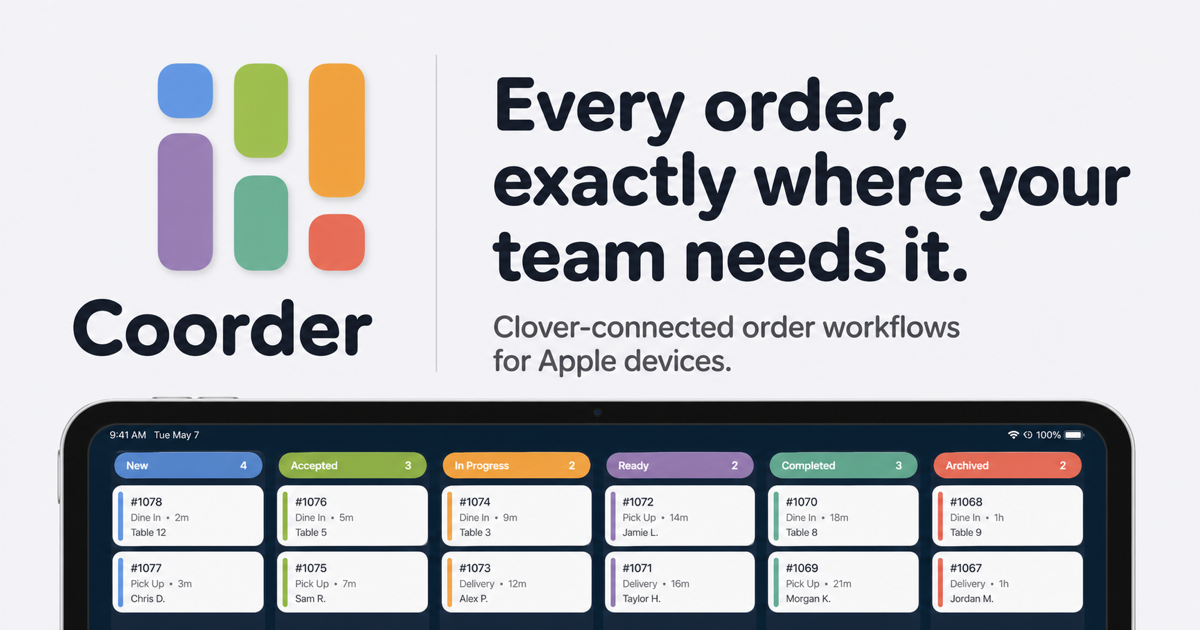
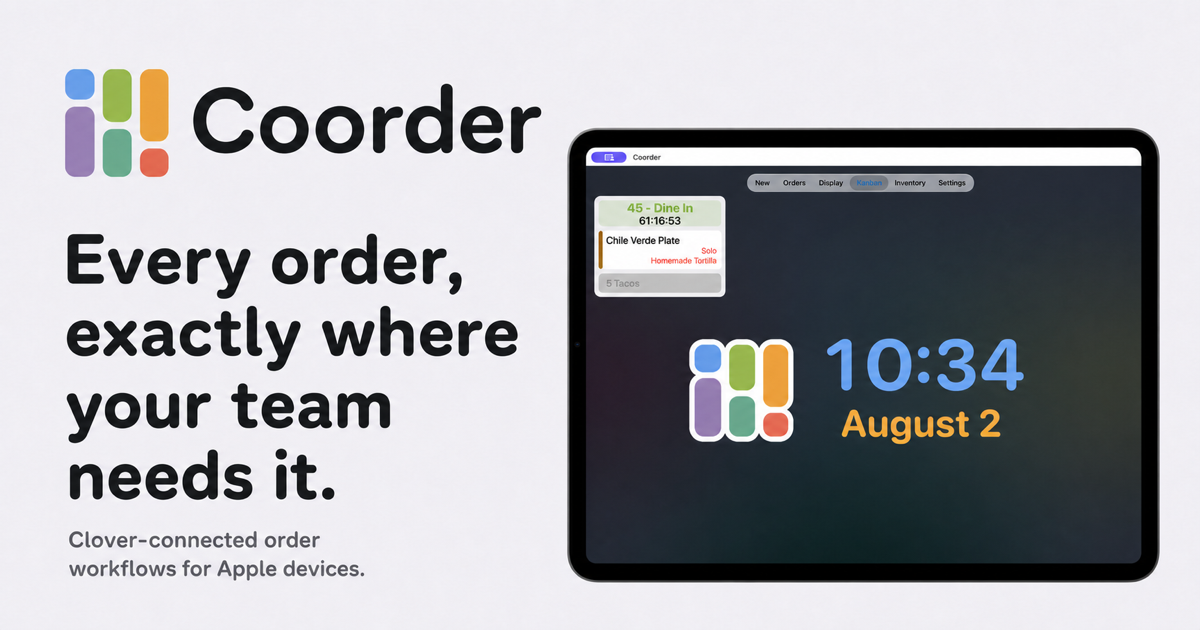
Use authentic Coorder iPad capture

diff --git a/app/globals.css b/app/globals.css
@@ -47,10 +47,8 @@ h1, h2, h3 { font-weight: 700; }
   height: 46px;
   display: grid;
   place-items: center;
-  overflow: hidden;
-  border-radius: 15px;
-  background: linear-gradient(145deg, #edf7dc, #e9eef9);
-  box-shadow: inset 0 0 0 1px rgba(23, 32, 28, .04);
+  overflow: visible;
+  background: transparent;
 }
 
 .brand-mark img { width: 37px; height: 37px; object-fit: contain; }
@@ -92,37 +90,10 @@ h1, h2, h3 { font-weight: 700; }
 .color-ribbon .red { background: var(--red); }
 
 .product-preview { position: relative; min-width: 0; }
-.ipad-frame { position: relative; padding: 10px; border-radius: 34px; background: #171b1f; box-shadow: 0 28px 75px rgba(23, 32, 28, .18); }
-.ipad-camera { position: absolute; z-index: 3; top: 14px; left: 50%; width: 5px; height: 5px; border-radius: 50%; background: #394047; transform: translateX(-50%); }
-.ipad-screen { overflow: hidden; border-radius: 26px; background: var(--page); }
-.ipad-tabbar { min-height: 54px; display: flex; align-items: center; justify-content: center; gap: 2px; padding: 9px 12px; border-bottom: 1px solid rgba(23, 32, 28, .06); background: rgba(255, 255, 255, .92); }
-.ipad-tabbar span { padding: 7px 9px; border-radius: 999px; color: #4f5b55; font-size: 8px; font-weight: 750; }
-.ipad-tabbar .active { color: #376cae; background: var(--soft-blue); }
-.real-kanban { position: relative; min-height: 380px; overflow: hidden; padding: 42px 16px 18px; background: radial-gradient(circle at 50% 46%, #003838 0, #1e3439 36%, #212c38 66%, #221f25 100%); }
-.kanban-ambient { position: absolute; inset: 14px 0 auto; display: flex; align-items: center; justify-content: center; gap: 12px; opacity: .2; }
-.kanban-ambient img { width: 72px; height: 72px; border-radius: 20px; object-fit: cover; }
-.kanban-ambient div { display: flex; flex-direction: column; align-items: center; }
-.kanban-ambient strong { color: var(--blue); font-size: 48px; line-height: .8; letter-spacing: -.06em; }
-.kanban-ambient span { margin-top: 8px; color: var(--orange); font-size: 20px; font-weight: 800; }
-.kanban-order-row { position: relative; z-index: 2; display: grid; grid-template-columns: repeat(3, minmax(0, 1fr)); gap: 10px; align-items: start; margin-top: 66px; }
-.ipad-order-card { min-width: 0; padding: 9px; border-radius: 14px; background: rgba(242, 242, 246, .97); box-shadow: 0 10px 26px rgba(0, 0, 0, .24); }
-.ipad-order-card header { padding: 7px 6px; border-radius: 9px; text-align: center; background: var(--order-soft); }
-.ipad-order-card header strong, .ipad-order-card header span { display: block; }
-.ipad-order-card header strong { overflow: hidden; color: var(--order); font-size: 9px; text-overflow: ellipsis; white-space: nowrap; }
-.ipad-order-card header span { margin-top: 3px; color: #222b28; font-size: 8px; font-weight: 750; }
-.blue-order { --order: #4b83c8; --order-soft: #e6f0fd; }
-.orange-order { --order: #b57419; --order-soft: #fff0d6; }
-.green-order { --order: #6e8835; --order-soft: #edf5dd; }
-.ipad-item { display: grid; grid-template-columns: 18px 1fr; gap: 6px; margin-top: 8px; padding: 8px; border-radius: 9px; background: #fff; }
-.ipad-item b { width: 18px; height: 18px; display: grid; place-items: center; border-radius: 6px; color: #fff; background: var(--order); font-size: 8px; }
-.ipad-item span { overflow: hidden; font-size: 8px; font-weight: 800; text-overflow: ellipsis; white-space: nowrap; }
-.ipad-item small { display: block; margin-top: 2px; color: #89918d; font-size: 6px; font-weight: 650; }
-.ipad-item i { grid-column: 1 / -1; padding: 5px; border-radius: 6px; color: var(--order); background: var(--order-soft); font-size: 6px; font-style: normal; font-weight: 850; text-align: center; }
-.ipad-item.cooked { opacity: .74; }
-.ipad-order-card button { width: 100%; margin-top: 8px; padding: 7px; border: 0; border-radius: 8px; color: #fff; background: #4b83c8; font: inherit; font-size: 7px; font-weight: 850; }
+.real-ipad-capture { width: 100%; overflow: hidden; border-radius: 28px; box-shadow: 0 28px 75px rgba(23, 32, 28, .18); }
 
-.statement-section { position: relative; overflow: hidden; padding: 108px 0; border-block: 1px solid #dfe5e1; background: #e8eeeb; }
-.pattern-strip { position: absolute; inset: 0; opacity: .13; background: url('/assets/coorder-pattern.png') center / cover; }
+.statement-section { position: relative; overflow: hidden; padding: 108px 0; border-block: 1px solid #e1e5e2; background: #f8f9f8; }
+.pattern-strip { position: absolute; inset: 0; opacity: .3; background: url('/assets/coorder-pattern.png') center / cover; filter: saturate(.92) contrast(.98); }
 .statement { position: relative; z-index: 1; text-align: center; }
 .statement .section-label { color: #617632; }
 .statement h2 { max-width: 940px; margin: 18px auto 0; color: var(--ink); font-size: clamp(38px, 5.3vw, 68px); line-height: 1.04; letter-spacing: -.052em; }
@@ -190,12 +161,12 @@ h1, h2, h3 { font-weight: 700; }
 .legal-card p { max-width: 500px; margin: 14px 0 0; color: var(--muted); font-size: 14px; line-height: 1.62; }
 .legal-arrow { position: absolute; top: 30px; right: 30px; width: 38px; height: 38px; display: grid; place-items: center; border: 1px solid var(--line); border-radius: 13px; background: #fff; font-weight: 850; }
 
-.final-cta { position: relative; overflow: hidden; display: grid; grid-template-columns: 1fr auto; align-items: end; gap: 50px; margin-bottom: 100px; padding: 62px; border-radius: 34px; color: #fff; background: var(--ink); }
-.final-cta .section-label { color: #b8dc69; }
+.final-cta { position: relative; overflow: hidden; display: grid; grid-template-columns: 1fr auto; align-items: end; gap: 50px; margin-bottom: 100px; padding: 62px; border: 1px solid #dce5d2; border-radius: 34px; color: var(--ink); background: linear-gradient(135deg, #f5f8ee, #eaf3ff); }
+.final-cta .section-label { color: #617632; }
 .final-cta h2 { font-size: clamp(40px, 5.4vw, 66px); }
-.final-cta p { max-width: 620px; margin: 18px 0 0; color: #b8c2bd; font-size: 16px; line-height: 1.6; }
+.final-cta p { max-width: 620px; margin: 18px 0 0; color: var(--muted); font-size: 16px; line-height: 1.6; }
 .button-dark { position: relative; z-index: 2; color: var(--ink); background: var(--green); }
-.cta-colors { position: absolute; right: -75px; top: -100px; width: 360px; height: 290px; opacity: .14; transform: rotate(-9deg); }
+.cta-colors { position: absolute; right: -75px; top: -100px; width: 360px; height: 290px; opacity: .22; transform: rotate(-9deg); }
 .cta-colors i { position: absolute; width: 92px; border-radius: 36px; }
 .cta-colors i:nth-child(1) { left: 0; top: 20px; height: 92px; background: var(--blue); }
 .cta-colors i:nth-child(2) { left: 104px; top: 0; height: 160px; background: var(--green); }
@@ -228,13 +199,7 @@ h1, h2, h3 { font-weight: 700; }
   .hero h1 { font-size: clamp(47px, 14vw, 68px); }
   .hero-copy > p { font-size: 16px; }
   .product-preview { width: 100%; margin-top: 20px; }
-  .ipad-frame { padding: 7px; border-radius: 25px; }
-  .ipad-screen { border-radius: 19px; }
-  .ipad-tabbar { min-height: 44px; overflow: hidden; gap: 0; padding-inline: 5px; }
-  .ipad-tabbar span { padding: 6px 5px; font-size: 6px; }
-  .real-kanban { min-height: 300px; padding-inline: 10px; }
-  .kanban-order-row { grid-template-columns: 1fr 1fr; }
-  .ipad-order-card:last-child { display: none; }
+  .real-ipad-capture { border-radius: 20px; }
   .statement-section { padding: 86px 0; }
   .features-section { padding-block: 90px; }
   .section-heading { grid-template-columns: 1fr; gap: 20px; }

diff --git a/app/page.tsx b/app/page.tsx
@@ -98,43 +98,12 @@ function ColorRibbon() {
 
 function ProductPreview() {
   return (
-    <div className="product-preview" aria-label="Coorder Kanban as shown on iPad">
-      <div className="ipad-frame">
-        <div className="ipad-camera" />
-        <div className="ipad-screen">
-          <div className="ipad-tabbar" aria-hidden="true">
-            <span>New</span>
-            <span>Orders</span>
-            <span>Display</span>
-            <span className="active">Kanban</span>
-            <span>Inventory</span>
-            <span>Settings</span>
-          </div>
-          <div className="real-kanban">
-            <div className="kanban-ambient" aria-hidden="true">
-              <img src="/assets/coorder-logo.png" alt="" />
-              <div><strong>10:38</strong><span>August 2</span></div>
-            </div>
-            <div className="kanban-order-row">
-              <article className="ipad-order-card blue-order">
-                <header><strong>#1042 · Dine In</strong><span>2:18</span></header>
-                <div className="ipad-item"><b>2</b><span>Chicken Tacos<small>No onions</small></span><i>Preparing</i></div>
-                <div className="ipad-item"><b>1</b><span>Citrus Soda</span><i>Preparing</i></div>
-              </article>
-              <article className="ipad-order-card orange-order">
-                <header><strong>#1040 · Online</strong><span>8:04</span></header>
-                <div className="ipad-item"><b>1</b><span>House Burger<small>Truffle fries</small></span><i>Cooking</i></div>
-                <div className="ipad-item cooked"><b>1</b><span>Garden Salad</span><i>Cooked</i></div>
-              </article>
-              <article className="ipad-order-card green-order">
-                <header><strong>#1039 · Pickup</strong><span>12:31</span></header>
-                <div className="ipad-item cooked"><b>2</b><span>Margherita Pizza</span><i>Cooked</i></div>
-                <button type="button" tabIndex={-1}>Complete</button>
-              </article>
-            </div>
-          </div>
-        </div>
-      </div>
+    <div className="product-preview" aria-label="Real Coorder Kanban running as an iPad app">
+      <img
+        className="real-ipad-capture"
+        src="/assets/coorder-kanban-ipad.png"
+        alt="Coorder Kanban on iPad showing a live restaurant order, the Coorder logo, current time, and date"
+      />
     </div>
   );
 }
